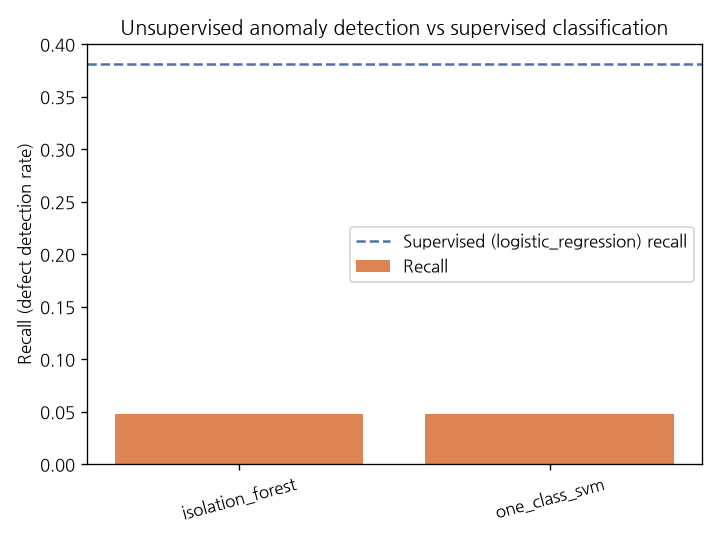
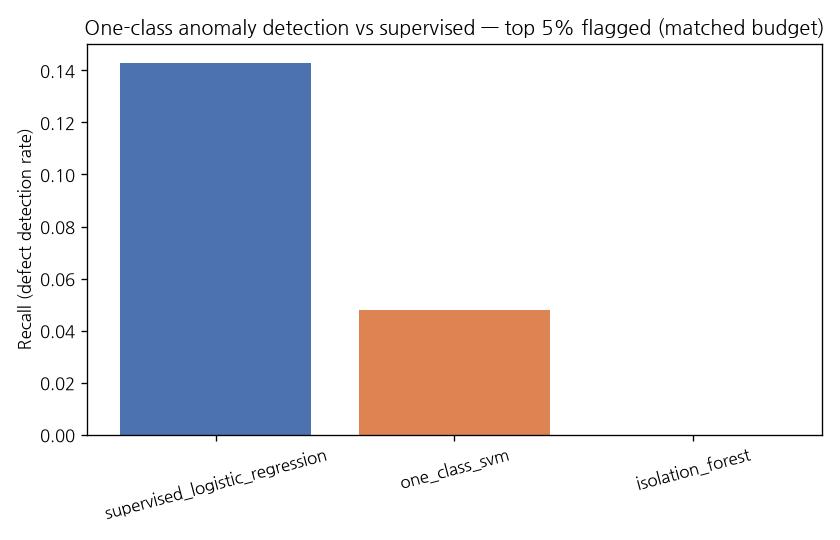
2차 리뷰 반영: 시간순 분할 n 오기 수정, 운영 임계값 exploratory 명시, 이상탐지 공정 비교
- README/TECHNICAL_REPORT: 시간순 분할 불량 건수를 21건->17건으로 수정(n_fail과 불일치),
  정리표의 Recall CI를 Clopper-Pearson(0~0.195)으로 통일, "구간이 거의 겹치지 않아 확실한
  성능 저하"라는 표현을 분할·CI 방식이 다르다는 점을 감안해 완화
- 운영 지표(Precision@고정 Recall) 섹션에 threshold가 validation이 아닌 test set에서
  탐색됐다는 점을 명시(탐색적 결과이지 검증된 운영 임계값이 아님)
- anomaly_detection.py: One-class(contamination=5%)와 지도학습(threshold=0.5)의 경고량이
  서로 달라 Recall을 직접 비교하는 게 불공정했던 문제를 수정 — 세 모델 모두 테스트셋 상위
  5%(동일 경고 예산) 플래깅 기준으로 재비교하는 matched_budget_comparison 추가, 기존
  기본-threshold 수치는 참고용으로 구분해 보존

diff --git a/src/anomaly_detection.py b/src/anomaly_detection.py
@@ -11,27 +11,37 @@
   mutual_info를 계산하는 버그가 있었다 — 사실상 무작위 선택과 다름없었다).
 - contamination/nu는 실제 test 불량률을 그대로 넣지 않는다. 실전에서는 이 값을 몰라야
   정상적인 시나리오이므로, 일반적으로 쓰이는 보수적 기본값(5%)을 사용한다.
+- One-class 모델의 기본 predict()(contamination=5%)와 지도학습의 기본 threshold(0.5)를
+  그대로 비교하면, 두 방식이 실제로 플래깅하는 웨이퍼 개수가 서로 달라져 Recall을 그대로
+  비교하는 게 불공정하다(이전 버전의 문제). 그래서 세 모델 모두 "이상치/불량 점수 기준
+  테스트셋 상위 5%를 플래깅"하는 동일한 경고 예산으로 다시 비교한다.
 """
 import json
 from functools import partial
 from pathlib import Path
 
 from plot_style import plt
+import numpy as np
 import pandas as pd
+from imblearn.over_sampling import SMOTE
+from imblearn.pipeline import Pipeline as ImbPipeline
 from sklearn.ensemble import IsolationForest
 from sklearn.feature_selection import VarianceThreshold, SelectKBest, mutual_info_classif
 from sklearn.impute import SimpleImputer
+from sklearn.linear_model import LogisticRegression
 from sklearn.metrics import average_precision_score, precision_score, recall_score
 from sklearn.model_selection import train_test_split
 from sklearn.preprocessing import StandardScaler
 from sklearn.svm import OneClassSVM
 
 from data import load_raw
+from train import add_time_features, build_base_steps
 
 ROOT = Path(__file__).resolve().parent.parent
 FIG_DIR = ROOT / "results" / "figures"
 RANDOM_STATE = 42
 CONTAMINATION_DEFAULT = 0.05  # 실전 가정: 정확한 불량률을 모른다고 보고 흔히 쓰이는 기본값 사용
+FLAG_FRACTION = 0.05  # 공정 비교용 경고 예산 (테스트셋 상위 5% 플래깅) — contamination과 동일하게 맞춤
 
 
 def fit_preprocess(X_train, y_train):
@@ -58,10 +68,17 @@ def apply_preprocess(X, imputer, vt, scaler, selector):
     return selector.transform(X_s)
 
 
+def flag_top_fraction(scores_most_anomalous_last, fraction, n):
+    """scores가 클수록 더 이상(불량스럽다)일 때, 상위 fraction만큼을 플래깅한 인덱스를 반환."""
+    n_flag = max(1, round(n * fraction))
+    order = np.argsort(-scores_most_anomalous_last)  # 내림차순 (가장 의심스러운 것부터)
+    return order[:n_flag], n_flag
+
+
 def main():
-    X, y, _ = load_raw()
-    X_train, X_test, y_train, y_test = train_test_split(
-        X, y, test_size=0.2, stratify=y, random_state=RANDOM_STATE
+    X, y, ts = load_raw()
+    X_train, X_test, y_train, y_test, ts_train, ts_test = train_test_split(
+        X, y, ts, test_size=0.2, stratify=y, random_state=RANDOM_STATE
     )
 
     # 전처리(결측치·분산·스케일·피처선택)는 정상+불량이 섞인 전체 train으로 fit
@@ -83,58 +100,97 @@ def main():
         # EllipticEnvelope는 60차원 공분산 추정이 불안정해(수렴 경고 다발) 제외함
     }
 
-    rows = []
+    y_test_arr = y_test.values
+    n_test = len(y_test_arr)
+    anomaly_scores = {}  # 클수록 더 이상치(불량스럽다)로 정규화
+
+    default_threshold_rows = []
     for name, model in detectors.items():
         model.fit(X_train_sel)
         raw_pred = model.predict(X_test_sel)  # 1=정상, -1=이상
         y_pred = (raw_pred == -1).astype(int)  # 1=불량으로 변환
 
-        scores = model.decision_function(X_test_sel) if hasattr(model, "decision_function") else -raw_pred
-        pr_auc = average_precision_score(y_test, -scores)
+        raw_scores = model.decision_function(X_test_sel)  # 클수록 "정상"에 가까움 (sklearn 관례)
+        anomaly_scores[name] = -raw_scores  # 부호 반전 -> 클수록 이상치
+        pr_auc = average_precision_score(y_test_arr, anomaly_scores[name])
 
-        rows.append(
+        default_threshold_rows.append(
             {
                 "detector": name,
-                "recall": round(recall_score(y_test, y_pred), 3),
-                "precision": round(precision_score(y_test, y_pred, zero_division=0), 3),
+                "recall": round(recall_score(y_test_arr, y_pred), 3),
+                "precision": round(precision_score(y_test_arr, y_pred, zero_division=0), 3),
                 "pr_auc": round(pr_auc, 3),
             }
         )
 
-    result_df = pd.DataFrame(rows).sort_values("recall", ascending=False)
-    print("=== 비지도 이상탐지 vs 지도학습(분류) 비교 ===")
-    print(result_df.to_string(index=False))
+    default_threshold_df = pd.DataFrame(default_threshold_rows).sort_values("recall", ascending=False)
+    print("=== One-class 이상탐지 결과 (모델 기본 predict(), contamination=5%) ===")
+    print(default_threshold_df.to_string(index=False))
 
-    supervised_path = ROOT / "results" / "final_report.json"
-    comparison = {"unsupervised_anomaly_detection": result_df.to_dict(orient="records")}
-    if supervised_path.exists():
-        with open(supervised_path, encoding="utf-8") as f:
-            supervised = json.load(f)
-        comparison["supervised_classification"] = supervised["held_out_test_metrics"]
-        comparison["supervised_classification"]["model"] = supervised["best_model"]
+    # 지도학습 pipeline: train.py 최종 파이프라인과 동일(시간 파생변수 + SMOTE + LogisticRegression)
+    X_train_fe = add_time_features(X_train, ts_train)
+    X_test_fe = add_time_features(X_test, ts_test)
+    steps = build_base_steps() + [
+        ("smote", SMOTE(random_state=RANDOM_STATE)),
+        ("clf", LogisticRegression(max_iter=2000, random_state=RANDOM_STATE)),
+    ]
+    supervised_pipe = ImbPipeline(steps)
+    supervised_pipe.fit(X_train_fe, y_train)
+    y_proba = supervised_pipe.predict_proba(X_test_fe)[:, 1]
+    anomaly_scores["supervised_logistic_regression"] = y_proba
+
+    supervised_default_pred = (y_proba >= 0.5).astype(int)
+    supervised_default_row = {
+        "detector": "supervised_logistic_regression",
+        "recall": round(recall_score(y_test_arr, supervised_default_pred), 3),
+        "precision": round(precision_score(y_test_arr, supervised_default_pred, zero_division=0), 3),
+        "pr_auc": round(average_precision_score(y_test_arr, y_proba), 3),
+    }
+    print("\n=== 지도학습 결과 (기본 threshold=0.5, 참고용) ===")
+    print(pd.DataFrame([supervised_default_row]).to_string(index=False))
+
+    # --- 공정 비교: 세 모델 모두 "테스트셋 상위 5%(경고 예산 고정)" 플래깅 기준으로 재계산 ---
+    matched_rows = []
+    for name, scores in anomaly_scores.items():
+        flagged_idx, n_flag = flag_top_fraction(scores, FLAG_FRACTION, n_test)
+        y_pred_matched = np.zeros(n_test, dtype=int)
+        y_pred_matched[flagged_idx] = 1
+        matched_rows.append(
+            {
+                "detector": name,
+                "n_flagged": int(n_flag),
+                "recall": round(recall_score(y_test_arr, y_pred_matched), 3),
+                "precision": round(precision_score(y_test_arr, y_pred_matched, zero_division=0), 3),
+            }
+        )
+    matched_df = pd.DataFrame(matched_rows).sort_values("recall", ascending=False)
+    print(f"\n=== 공정 비교: 테스트셋 상위 {FLAG_FRACTION:.0%} 플래깅 (n={matched_df['n_flagged'].iloc[0]}) ===")
+    print(matched_df.to_string(index=False))
+
+    comparison = {
+        "note": "matched_budget_comparison이 공정한 비교(세 모델 모두 동일 경고 예산). "
+                "default_threshold_reference는 각 모델의 기본 predict()/threshold=0.5를 그대로 쓴 "
+                "참고용 수치로, 서로 다른 경고량을 비교하는 것이므로 Recall을 직접 비교하면 안 됨.",
+        "matched_budget_comparison": matched_df.to_dict(orient="records"),
+        "one_class_default_threshold_reference": default_threshold_df.to_dict(orient="records"),
+        "supervised_default_threshold_reference": supervised_default_row,
+    }
 
     with open(ROOT / "results" / "anomaly_vs_supervised.json", "w", encoding="utf-8") as f:
         json.dump(comparison, f, ensure_ascii=False, indent=2)
 
-    fig, ax = plt.subplots(figsize=(6, 4.5))
-    x = result_df["detector"]
-    ax.bar(x, result_df["recall"], color="#DD8452", label="Recall")
-    if "supervised_classification" in comparison:
-        ax.axhline(
-            comparison["supervised_classification"]["recall"],
-            color="#4C72B0",
-            linestyle="--",
-            label=f"Supervised ({comparison['supervised_classification']['model']}) recall",
-        )
+    fig, ax = plt.subplots(figsize=(7, 4.5))
+    x = matched_df["detector"]
+    colors = ["#4C72B0" if "supervised" in n else "#DD8452" for n in x]
+    ax.bar(x, matched_df["recall"], color=colors)
     ax.set_ylabel("Recall (defect detection rate)")
-    ax.set_title("Unsupervised anomaly detection vs supervised classification")
-    ax.legend()
+    ax.set_title(f"One-class anomaly detection vs supervised — top {FLAG_FRACTION:.0%} flagged (matched budget)")
     plt.xticks(rotation=15)
     fig.tight_layout()
     fig.savefig(FIG_DIR / "10_anomaly_vs_supervised.png", dpi=120)
     plt.close(fig)
 
-    result_df.to_csv(ROOT / "results" / "anomaly_detection_comparison.csv", index=False)
+    matched_df.to_csv(ROOT / "results" / "anomaly_detection_comparison.csv", index=False)
     print("\n결과 저장 완료: results/anomaly_detection_comparison.csv, results/anomaly_vs_supervised.json")
 
 
